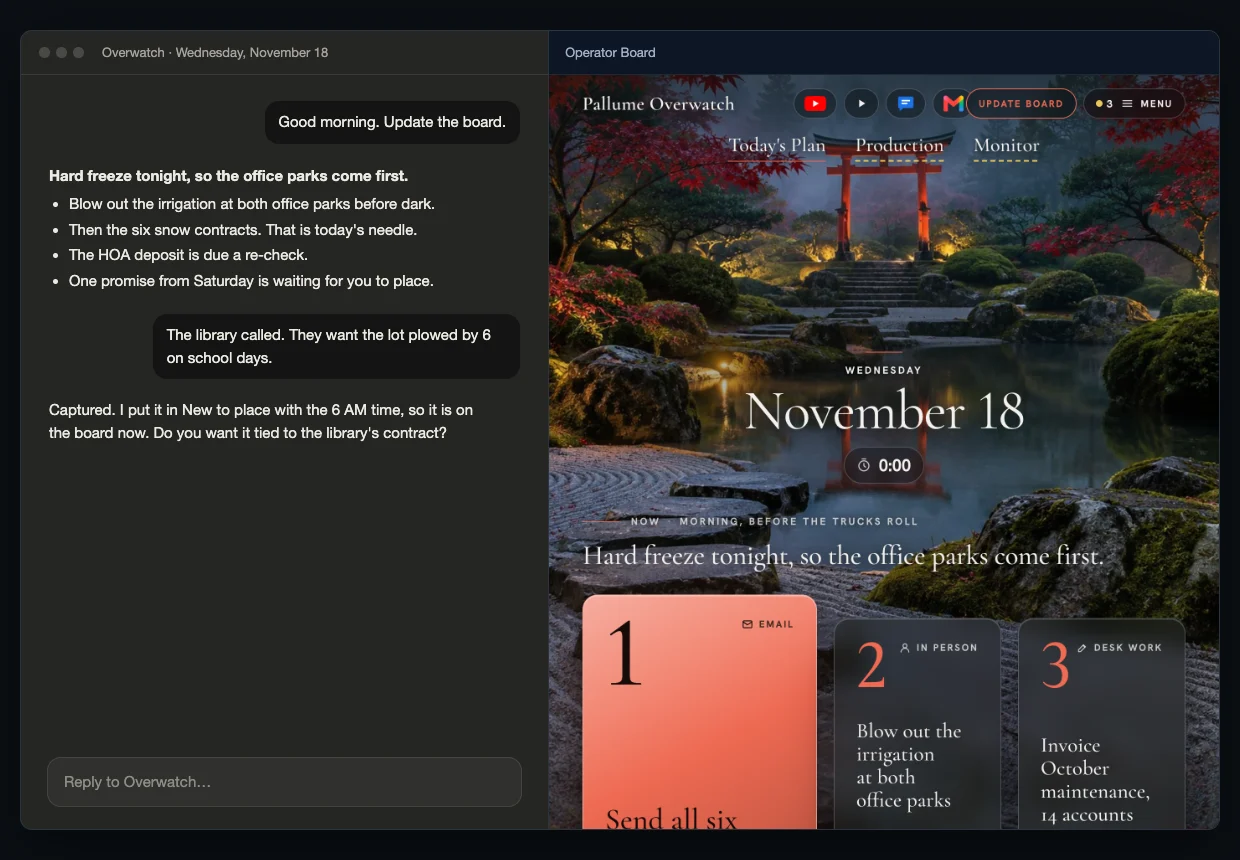
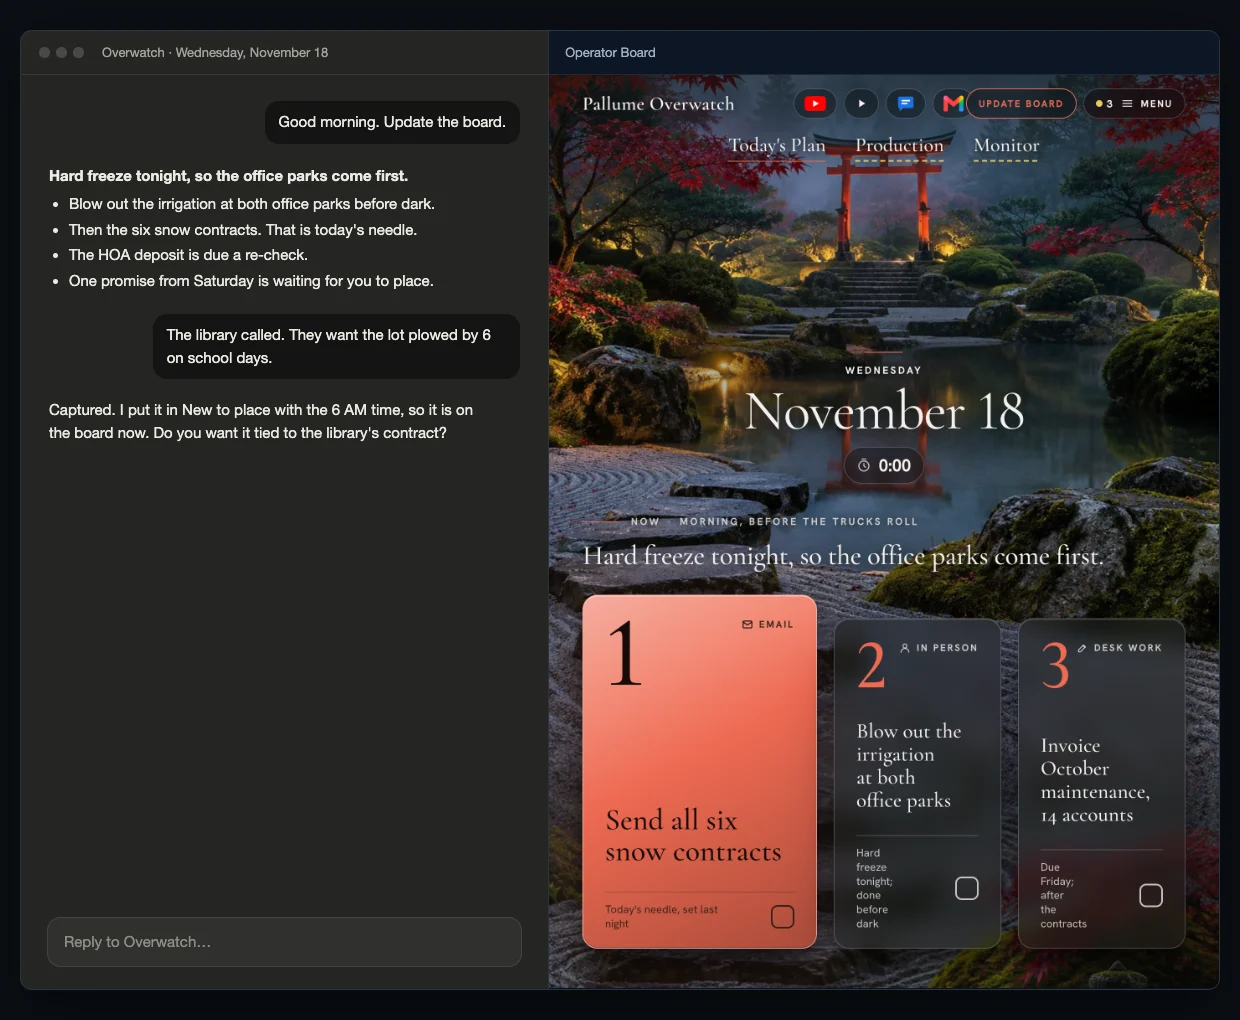
Home band picture: three priority cards, 1240 x 1020 (Camden 11/20/2026 11:31 AM, "I want 1, 2, and 3")
Re-copied from the same Productization source; slot resized to 1240 / 1020. Alt now says
"first three priorities" (Claude's wording). Caption still Claude's draft, not ruled.

diff --git a/content/siteContent.ts b/content/siteContent.ts
@@ -1118,17 +1118,18 @@ export const site2026 = {
       "Pallume Overwatch is that system. It brings everything you do into one place: all the skills and capabilities and routine functions you need daily are right in front of you. And it's customizable to your workflow. I run my own business on it.",
     ],
     handoff: "Here's what it looks like.",
-    // The picture (Camden, 11/20/2026 11:09-11:12 AM layout and skin; 11:29 AM dark chat side; 11:31 AM "Yes, put it on"):
+    // The picture (Camden, 11/20/2026 11:09-11:12 AM layout and skin; 11:29 AM dark chat side; 11:31 AM "Yes, put it on"; 11:31 AM "I want 1, 2, and 3", three cards):
     // chat on the left, his current board design in the side panel, the garden skin, made-up work.
     // Source: briefs/hero-chaos-to-clarity/demo-board/current-design/png/layout-chat-plus-board.png, as WebP.
     // Caption is Claude's draft, not ruled by Camden. Set src to null to show the marked slot again.
     board: {
       src: "/images/home/overwatch-chat-and-board.webp" as string | null,
       width: 1240,
-      height: 860,
-      alt: "Pallume Overwatch: a chat on the left and the board beside it, showing the day's first priority.",
+      height: 1020,
+      // Alt wording "first three priorities" is Claude's (11/20/2026 11:33 AM, three cards per Camden 11:31 AM).
+      alt: "Pallume Overwatch: a chat on the left and the board beside it, showing the day's first three priorities.",
       caption: "Made-up work, shown in the garden skin.", // DRAFT, Claude's words
-      slotLabel: "Picture slot, 1240 x 860",
+      slotLabel: "Picture slot, 1240 x 1020",
       slotNote: "Chat on the left, the board in the side panel, garden skin, made-up work.",
       openLabel: "Open the full-size picture",
     },

diff --git a/components/site/HypeSection.module.css b/components/site/HypeSection.module.css
@@ -40,13 +40,13 @@
   color: #1c2230; margin: 48px 0 0;
 }
 
-/* The picture of Overwatch, on navy. Landscape 1240 x 860; full width on phones. */
+/* The picture of Overwatch, on navy. Landscape 1240 x 1020; full width on phones. */
 .band { background: var(--night); padding: 64px 0 56px; }
 @media (min-width: 768px) { .band { padding: 96px 32px 88px; } }
 .bandInner { max-width: 1240px; margin: 0 auto; }
 .boardLink { display: block; }
 .board, .slot {
-  display: block; width: 100%; height: auto; aspect-ratio: 1240 / 860;
+  display: block; width: 100%; height: auto; aspect-ratio: 1240 / 1020;
 }
 .board { border-radius: 12px; border: 1px solid rgba(248, 246, 240, 0.12); box-shadow: 0 30px 80px rgba(0, 0, 0, 0.45); }
 .slot {
